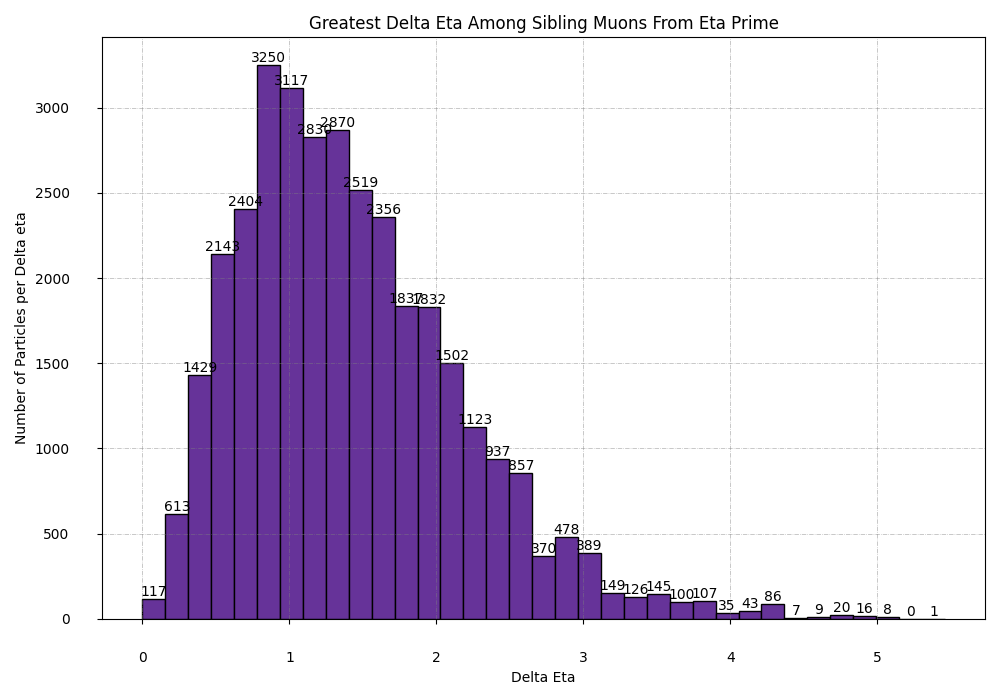
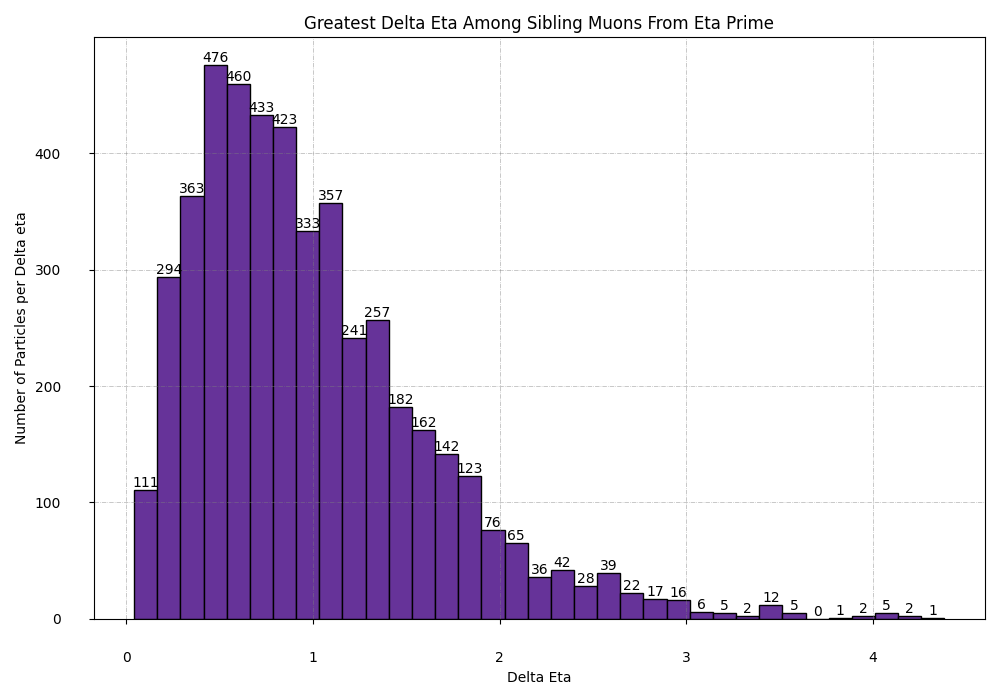
Fixed error where Eta_prime hist were using Eta info

diff --git a/GenLevelStudies/pythia/analysis_Eta.py b/GenLevelStudies/pythia/analysis_Eta.py
@@ -233,13 +233,13 @@ prime_sibmuons = et.TwoDEta(PMuVec1, PMuVec2, PMuVec3, PMuVec4)
 counter = 0
 prime_delta_eta_list = []
 for i in range(len(prime_sibmuons[:,1])):
-    mineta = 0
-    maxeta = 0
+    pmineta = 0
+    pmaxeta = 0
     sibs = prime_sibmuons[i,:]
-    mineta = np.min(sibs)
-    maxeta = np.max(sibs)
-    delta_eta = maxeta-mineta
-    prime_delta_eta_list.append(delta_eta)
+    pmineta = np.min(sibs)
+    pmaxeta = np.max(sibs)
+    prime_delta_eta = pmaxeta-pmineta
+    prime_delta_eta_list.append(prime_delta_eta)
     if sibs[0] <= 5 and sibs[0] >= 2 and sibs[1] <= 5 and sibs[1] >= 2 and sibs[2] <= 5 and sibs[2] >= 2 and sibs[3] <= 5 and sibs[3] >= 2:
         counter += 1
         if counter == 1:
@@ -253,7 +253,7 @@ fig, axs = plt.subplots(1, 1,
 axs.grid(b = True, color ='grey', 
         linestyle ='-.', linewidth = 0.5, 
         alpha = 0.6)
-counts, edges, bars = plt.hist(delta_eta_list ,edgecolor='black', color='rebeccapurple', bins=35)
+counts, edges, bars = plt.hist(prime_delta_eta_list ,edgecolor='black', color='rebeccapurple', bins=35)
 plt.bar_label(bars)
 axs.xaxis.set_tick_params(pad = 20) 
 axs.yaxis.set_tick_params(pad = 20) 
